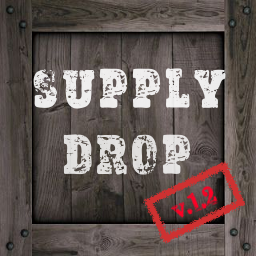
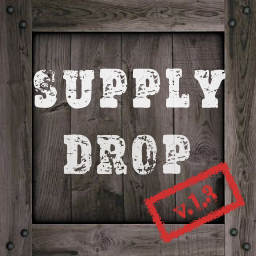
Add files via upload

Changed region(s): [[0.6562, 0.7188, 0.875, 0.875]]

diff --git a/README.md b/README.md
@@ -3,19 +3,19 @@ Supply Drop is a mod for Risk of Rain 2 designed to add a number of items.
 Items are designed with not just variety in mind, but with the goal of staying true to the game's design aesthetic, as well as balance.
 More items are coming soon--over a dozen are planned as of now!
 
-# What's New with Update 1.2: Shield Your Eyes!
-For millennia man has pondered over some of the toughest questions life has to offer. What's the point of it all? Do I matter? Do people actually use Google Stadia? And most importantly of all:
+# What's New with Update 1.3 Part One: The Doctor is In!
+Modern problems may require modern solutions, but medieval problems like a pandemic require equally time-appropriate solutions. And that may or may not mean the medicinal practices showcased in this update will be somewhat...unconventional. But despite these questionable methods, we can guarantee the items in this update are sure to cure your what ails\* your patients\**! 
 
-Why in the world would anyone pick up more than one Personal Shield Generator?
+<sub>\* Disclaimer: Applicable ailments are: being alive.</sub>
 
-Thing is, the fact man puzzled over that last one is a testament to how dumb man is. Because the answer is that there is no reason, ever. UNTIL TODAY THAT IS! THAT'S RIGHT, SHIELD ISN'T USELESS ANYMORE! Introducing the Shield Your Eyes update, coming to the Supply Drop mod! This update will bring...no you idiot, it's just the title of the update, don't literally cover your eyes.
+<sub>** Disclaimer: Your patients refers to anything that moves.</sub>
 
-Okay. They're open now? Good. Then...BEHOLD! Four brand new items: Two commons, one uncommon, and one egendary, all centered around the shield mechanic. And yes, you read that right. FOUR new items, which is 100% more than the last update, making this an objectively superior update! This update has brought the items, now you go bring purpose to the life of that sad, lonely second Personal Shield Generator you've left behind on all those stages in the past. You monster.
+A little note from the developer: Hey everyone, going forward I intend to split major releases into two parts. The first part will reveal the update theme and what rarity the items of the second part will be. Then, the second part will reveal the name/rarity of ONE item in the next major release. Both parts, of course, will include items, as well as other major improvements/reworks. This method will allow me to get some items to you all faster, when otherwise pushing full releases would take a while.
 
 # Included Items:
 ## Common Items:
 - **Hardened Bone Fragments**
-	- Killing an enemy temporarily grants 1 (+1 per stack) armor. All armor is lost upon taking damage.
+	- Killing an enemy temporarily grants 2 (+1 per stack) armor. All armor is lost upon taking damage.
 - **Numbing Berries**
 	- Gain 5 (+5 per stack) armor upon taking damage for 2 (+0.5 per stack) seconds.
 - **Unassuming Tie**
@@ -29,27 +29,52 @@ Okay. They're open now? Good. Then...BEHOLD! Four brand new items: Two commons, 
 	
 - **Echo-Voltaic Plankton**
 	- Gain shield equal to 8% of your max HP. Dealing damage recharges 1 (+1 per stack) shield.
+
+- **UNKNOWN ITEM**
+	- `ERROR: Item log read-out scrambled during transmission. Please wait for update...`
+
+- **UNKNOWN ITEM**
+	- `ERROR: Item log read-out scrambled during transmission. Please wait for update...`
 	
 ## Legendary Items:
-- **Quantum Shield Stabilizer **
-	- Gain shield equal to 16% of your max HP. If an attack exceeds your active shields, the excess damage is reduced by 10% (+5% per stack), plus an additional 0.5% (+0.25% per stack) per 1% of maximum shield that was depleted.
+- **Quantum Shield Stabilizer**
+	- Gain shield equal to 16% of your max HP. If an attack exceeds your active shields, the excess damage is negated. This ability has a cooldown of 5s (-0.5s per stack).
 
-- **COMING SOON: Tome of Bloodletting**
-	- `ERROR: Item log read-out scrambled during transmission. Please wait for update...`
+- **Tome of Bloodletting**
+	- Convert 10% (+5% per stack) of the damage you take into a damage boost of up to 20 (+10 per stack) for 4s. The boost duration is increased based on damage taken; every 10% max health that was depleted, up to 50%, increases the duration by +2s.
 	
 ## Lunar Items:
 
 ## Equipment:
 
 ## Changelog:
+- 1.3.0
+	- Added one new item: The Tome of Bloodletting. KNOWN ISSUE: Display in the logbook is weirdly off-center, this will be addressed in an upcoming patch.
+	- Re-worked Quantum Shield Stabilizer. Still provides 16% max HP shield. Now completely negates excess damage when an attack breaks your shields, but has a 5 second cooldown before the effect can activate again.
+	- Fixed issue causing console to throw warnings regarding missing scripts
+	- Fixed a couple remaining minor text errors/awkwardness in logbook entries
+	- Made a few minor under-the-hood optimizations
+
+- 1.2.3
+	- Buffed Hardened Bone Fragments to provide 1 -> 2 armor per kill. Additional item stacks still give +1 additional armor on kill, this may be subject to change
+	- Fixed Echo-Voltaic Plankton not proc-ing shield against bosses
+	- Fixed Echo-Voltaic Plankton having a random reflection probe that messed with a few specific reflection shaders (Thanks Pikmin88 for the report)
+	- Fixed some minor text errors in logbook entries
+
+- 1.2.2
+	- Completed under-the-hood migration to TILER2's 3.0 version. Thanks Chen and Komrade for help with this
+	- Fixed Salvaged Wires and Unassuming Tie logbook entries not reflecting the nerf they received last patch
+	- Fixed Quantum Shield Generator's blue projection not spinning all the time, and removed the orb's bobbing due to glitchiness this caused (May patch this back in at some point)
+	- Work continues on the next big update...
+
+- 1.2.1
+	- Nerfed stacking shield gain on Salvaged Wires and Unassuming Tie (+4% -> +2% per stack)
+	- Fixed Numbing Berries not appearing on Acrid
+	- Fixed Numbing Berries calculating stacking armor gain incorrectly (Thanks Crescendo for the report)
+
 - 1.2.0: The Shield Your Eyes! Update
-	Additions:
 	- Added four new items: The Unassuming Tie, Salvaged Wires, Echo-Voltaic Plankton, and Quantum Shield Generator
-	
-	Balancing:
 	- Reduced max armor acquirable from first stack of Shell Plating from 20 to 10 (Each kill grants .2 instead of .4). Increased max stacks granted by additional Shell Platings by 25 to compensate.
-	
-	Bug Fixes:
 	- Fixed Shell Plating not carrying over between stages
 	- Fixed Shell Plating sometimes not appearing properly on MUL-T's model
 	- Made slight changes/fixes to the logs of Hardened Bone Fragments, Shell Plating, and Numbing Berries
@@ -79,8 +104,10 @@ Okay. They're open now? Good. Then...BEHOLD! Four brand new items: Two commons, 
 
 **Bord Listian:** They have been a huge help in teaching me about components and bugfixing my attempts.
 
-**Rico:** Modeling master. Provided the model for the Numbing Berries and the base canister for the Echo-Voltaic Plankton.
+**Rico:** Modeling master. They provided the model for the Numbing Berries and base canister for the Echo-Voltaic Plankton.
 
 **XoXFaby:** They have been super helpful in explaining IL stuff, and dealing with my cluelessness towards it!
 
 **WaltzingPhantom:** They provided the lovely item icon designs for Hardened Bone Fragments and Numbing Berries!
+
+**Rein:** They provided so much help with getting the different components in the Tome of Bloodletting working. I can't thank them enough!
